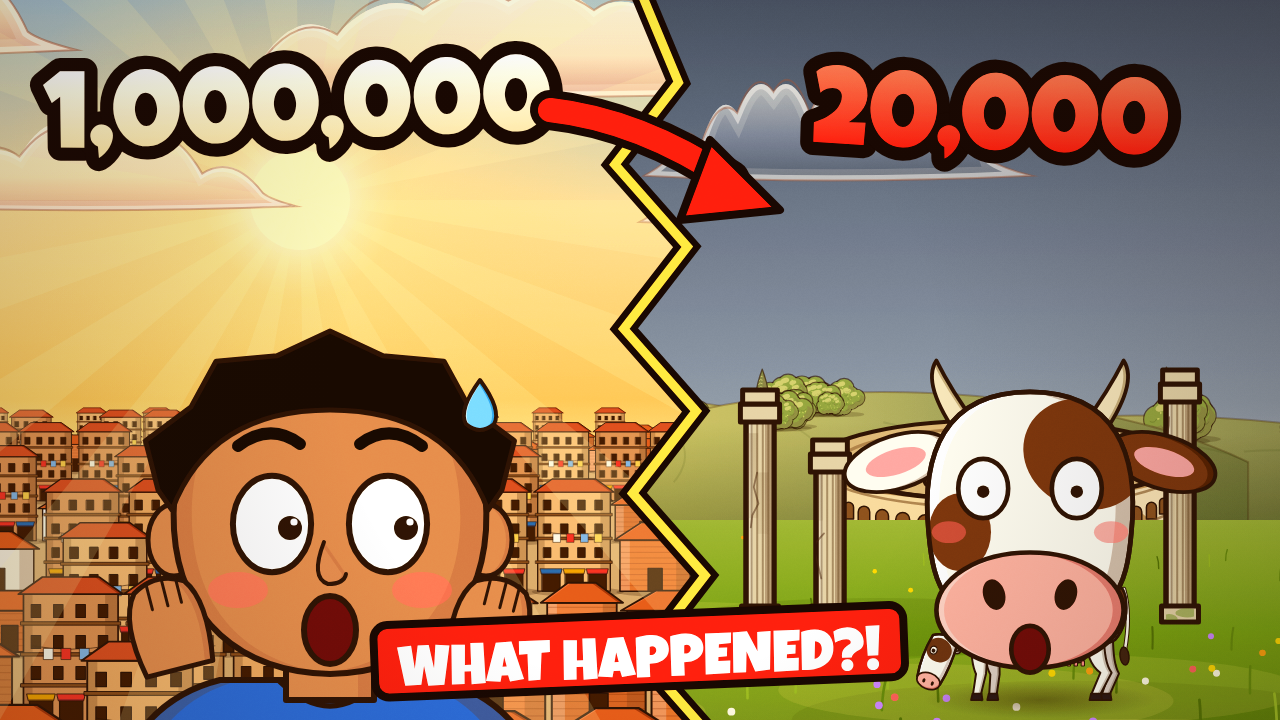
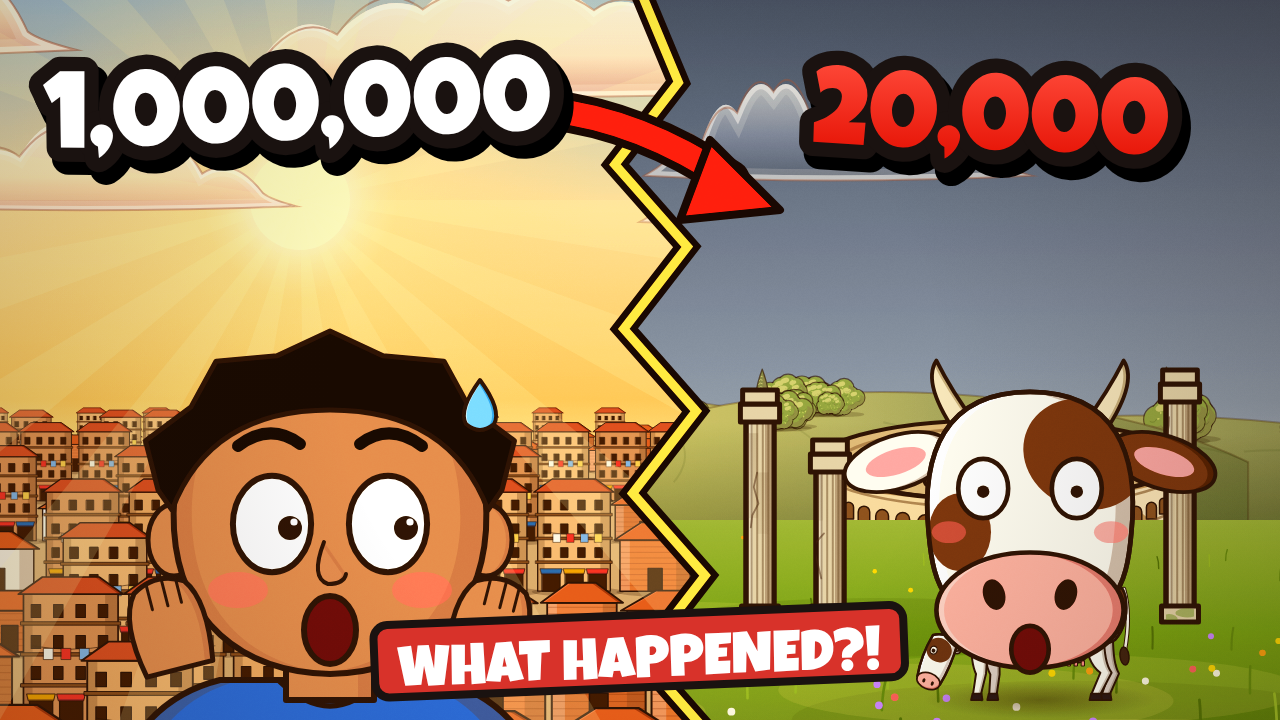
Rome thumbnails: titles painted after the colour grade, solid colours and heavier outlines
Claude-Session: https://claude.ai/code/session_011U7RCHA61NQ9PLDXwGdMry

Changed region(s): [[0.0312, 0.0611, 0.4688, 0.275], [0.2812, 0.825, 0.7188, 0.9778], [0.625, 0.0917, 0.9375, 0.275]]

diff --git a/houdini/rome/js/thumb.js b/houdini/rome/js/thumb.js
@@ -66,9 +66,9 @@
     ctx.fillStyle = 'rgba(240,110,110,.5)'; for (const d of [-1, 1]) { ctx.beginPath(); ctx.ellipse(d * 104, -10, 22, 14, 0, 0, 7); ctx.fill(); } ctx.restore(); }
 
   // ---------- title text: chunky font, thick dark outline, drop shadow ----------
-  function title(ctx, text, x, y, size, fill, o = {}) { ctx.save(); ctx.translate(x, y); ctx.rotate(o.rot || 0); ctx.font = `${size}px "Luckiest Guy", "Nunito", sans-serif`; ctx.textAlign = o.align || 'center'; ctx.textBaseline = 'alphabetic'; ctx.lineJoin = 'round';
-    ctx.fillStyle = 'rgba(0,0,0,.45)'; ctx.fillText(text, 6, 10); ctx.lineWidth = size * .24; ctx.strokeStyle = o.stroke || '#1a1210'; ctx.strokeText(text, 0, 0); if (Array.isArray(fill)) { const g = ctx.createLinearGradient(0, -size * .8, 0, 0); g.addColorStop(0, fill[0]); g.addColorStop(1, fill[1]); ctx.fillStyle = g; } else ctx.fillStyle = fill; ctx.fillText(text, 0, 0); ctx.restore(); }
-  function stamp(ctx, text, x, y, size, rot) { ctx.save(); ctx.translate(x, y); ctx.rotate(rot); ctx.font = `${size}px "Luckiest Guy", sans-serif`; const w = ctx.measureText(text).width + size * .8; ctx.fillStyle = '#d8322a'; ctx.strokeStyle = '#1a1210'; ctx.lineWidth = 8; ctx.beginPath(); ctx.roundRect(-w / 2, -size * .95, w, size * 1.25, 14); ctx.fill(); ctx.stroke(); ctx.fillStyle = '#fff'; ctx.textAlign = 'center'; ctx.fillText(text, 0, size * .12); ctx.restore(); }
+  function _title(ctx, text, x, y, size, fill, o = {}) { ctx.save(); ctx.translate(x, y); ctx.rotate(o.rot || 0); ctx.font = `${size}px "Luckiest Guy", "Nunito", sans-serif`; ctx.textAlign = o.align || 'center'; ctx.textBaseline = 'alphabetic'; ctx.lineJoin = 'round';
+    ctx.lineWidth = size * .3; ctx.strokeStyle = '#000'; ctx.strokeText(text, 7, 11); ctx.fillStyle = '#000'; ctx.fillText(text, 7, 11); ctx.lineWidth = size * .26; ctx.strokeStyle = o.stroke || '#1a1210'; ctx.strokeText(text, 0, 0); if (Array.isArray(fill)) { const g = ctx.createLinearGradient(0, -size * .8, 0, 0); g.addColorStop(0, fill[0]); g.addColorStop(1, fill[1]); ctx.fillStyle = g; } else ctx.fillStyle = fill; ctx.fillText(text, 0, 0); ctx.restore(); }
+  function _stamp(ctx, text, x, y, size, rot) { ctx.save(); ctx.translate(x, y); ctx.rotate(rot); ctx.font = `${size}px "Luckiest Guy", sans-serif`; const w = ctx.measureText(text).width + size * .8; ctx.fillStyle = '#d8322a'; ctx.strokeStyle = '#1a1210'; ctx.lineWidth = 8; ctx.beginPath(); ctx.roundRect(-w / 2, -size * .95, w, size * 1.25, 14); ctx.fill(); ctx.stroke(); ctx.fillStyle = '#fff'; ctx.textAlign = 'center'; ctx.fillText(text, 0, size * .12); ctx.restore(); }
   function burst(ctx, x, y, r, col, n = 14) { ctx.save(); ctx.translate(x, y); ctx.beginPath(); for (let i = 0; i < n * 2; i++) { const a = i * Math.PI / n, rr = i % 2 ? r * .62 : r; ctx.lineTo(Math.cos(a) * rr, Math.sin(a) * rr); } ctx.closePath(); ctx.fillStyle = col; ctx.fill(); ctx.strokeStyle = '#1a1210'; ctx.lineWidth = 6; ctx.stroke(); ctx.restore(); }
   function rays(ctx, x, y, col, a = .25) { ctx.save(); ctx.globalAlpha = a; ctx.fillStyle = col; for (let i = 0; i < 18; i++) { const a0 = i * Math.PI / 9; ctx.beginPath(); ctx.moveTo(x, y); ctx.lineTo(x + Math.cos(a0) * 1600, y + Math.sin(a0) * 1600); ctx.lineTo(x + Math.cos(a0 + .16) * 1600, y + Math.sin(a0 + .16) * 1600); ctx.closePath(); ctx.fill(); } ctx.restore(); }
   // a jagged diagonal split: left(ctx) and right(ctx) draw the two halves
@@ -87,12 +87,12 @@
   function v1(ctx) { split(ctx, c => { K.fireSky(c, t, 1); K.cityscape(c, t, { dusk: true }); const R = C.rng(5); for (let i = 0; i < 9; i++) K.flames(c, R() * 700, 470 + R() * 200, .7, t + i, { smoke: true }); P.grade(c, '#ff5020', .15, 'screen'); },
       c => { C.sky(c, 'golden', t, { horizon: 430, sun: [1100, 220], sunR: 60, seed: 7 }); rays(c, 1100, 220, '#fff4c0', .2); C.mounds(c, { y: 440, n: 5, seed: 8, col: '#8aa070', far: .4, sunX: 1100, t, w: 560, h: 90, copses: 2 }); K.colosseum(c, 1020, 440, 200, 46, 120); C.meadow(c, 520, 800, t, { col: '#8acc44', n: 140, flowers: 40 }); for (const [x, h] of [[740, 240], [800, 200]]) P.column(c, x, 600, 30, h, { col: '#efe6d2' }); });
     bust(ctx, 290, 520, 1.08, Object.assign({}, SENATOR, { face: 'panic', hands: 'cheeks' })); cowFace(ctx, 1010, 520, 1.0, { face: 'joy' });
-    title(ctx, 'ROME SHOULD', 640, 112, 96, ['#ffffff', '#f4e4c0'], { rot: -.03 }); title(ctx, "HAVE DIED", 640, 210, 104, ['#ffe060', '#ff9a20'], { rot: -.03 }); stamp(ctx, '5 TIMES!', 640, 660, 74, -.06);
+    title(ctx, 'ROME SHOULD', 640, 112, 96, ['#ffffff', '#ffffff'], { rot: -.03 }); title(ctx, "HAVE DIED", 640, 210, 104, ['#fff200', '#ffb000'], { rot: -.03 }); stamp(ctx, '5 TIMES!', 640, 660, 74, -.06);
     C.finish(ctx, t, 'golden', { leak: false, vig: .25, grain: false }); }
   // 2. "1,000,000 → 20,000": a shocked tourist in today's Forum | the medieval cow pasture, the population crashing
   function v2(ctx) { split(ctx, c => { C.sky(c, 'golden', t, { horizon: 440, sun: [300, 200], sunR: 50, seed: 11 }); K.cityscape(c, t); rays(c, 300, 200, '#fff4c0', .18); },
       c => { C.sky(c, 'storm', t, { horizon: 440, seed: 12, clouds: 3 }); C.mounds(c, { y: 450, n: 5, seed: 13, col: '#7a8a68', far: .4, sunX: 900, t, w: 560, h: 80, copses: 2 }); K.colosseum(c, 1000, 460, 180, 40, 100); C.meadow(c, 520, 800, t, { col: '#7a9a3a', n: 120 }); for (const [x, h] of [[760, 200], [830, 150], [1180, 220]]) P.column(c, x, 620, 28, h, { col: '#d8ccb0' }); P.cow(c, 1040, 700, .5, t, { graze: true, seed: 3 }); });
-    title(ctx, '1,000,000', 300, 140, 110, ['#ffffff', '#f0e0b8'], { rot: -.04 }); title(ctx, '20,000', 990, 150, 110, ['#ff8a70', '#e8322a'], { rot: .03 });
+    title(ctx, '1,000,000', 300, 140, 110, ['#ffffff', '#ffffff'], { rot: -.04 }); title(ctx, '20,000', 990, 150, 110, ['#ff4a3a', '#e8180a'], { rot: .03 });
     ctx.save(); ctx.translate(640, 150); ctx.strokeStyle = '#1a1210'; ctx.lineWidth = 40; ctx.lineCap = 'round'; ctx.beginPath(); ctx.moveTo(-90, -40); ctx.quadraticCurveTo(0, -30, 90, 30); ctx.stroke(); ctx.strokeStyle = '#e8322a'; ctx.lineWidth = 24; ctx.stroke(); ink(ctx, '#e8322a', c => { c.moveTo(70, -10); c.lineTo(140, 60); c.lineTo(40, 70); c.closePath(); }, 8, '#1a1210'); ctx.restore();
     bust(ctx, 330, 560, 1.0, Object.assign({}, TOURIST, { face: 'surprise', hands: 'cheeks', look: 18 })); cowFace(ctx, 1030, 540, .78, { face: 'shock' });
     stamp(ctx, 'WHAT HAPPENED?!', 640, 670, 58, -.04); C.finish(ctx, t, 'golden', { leak: false, vig: .25 }); }
@@ -102,7 +102,7 @@
     for (let i = 0; i < 3; i++) { ctx.strokeStyle = 'rgba(140,210,245,.95)'; ctx.lineWidth = 46 - i * 12; ctx.lineCap = 'round'; ctx.beginPath(); ctx.moveTo(640, 330); ctx.quadraticCurveTo(700 + i * 40, 420, 660 + i * 70, 720); ctx.stroke(); } for (let i = 0; i < 26; i++) { const a = -1.4 + i * .11, r = 60 + (i * 37) % 90; cel(ctx, c => c.arc(640 + Math.cos(a) * r, 330 + Math.sin(a) * r * .8, 8 + (i % 3) * 4, 0, 7), '#a8e0ff', { dx: 2, dy: 2, lw: 3 }); }
     for (let i = 0; i < 6; i++) P.rock(ctx, 560 + i * 40, 716, 26, '#d8bc8a');
     bust(ctx, 1000, 560, 1.0, Object.assign({}, GOTH, { face: 'grin', hands: 'thumb' })); bust(ctx, 250, 560, 1.0, Object.assign({}, LEGION, { face: 'panic', hands: 'cheeks' }));
-    title(ctx, 'THEY CUT', 640, 120, 104, ['#ffffff', '#e0f0ff'], { rot: -.03 }); title(ctx, 'THE WATER', 640, 222, 112, ['#9ae0ff', '#2a98e8'], { rot: -.03 }); stamp(ctx, 'AD 537', 640, 670, 60, .05);
+    title(ctx, 'THEY CUT', 640, 120, 104, ['#ffffff', '#ffffff'], { rot: -.03 }); title(ctx, 'THE WATER', 640, 222, 112, ['#40d8ff', '#0a8cff'], { rot: -.03 }); stamp(ctx, 'AD 537', 640, 670, 60, .05);
     C.finish(ctx, t, 'storm', { leak: false, vig: .25 }); }
 
   const MATRON = { kind: 'tunic', cloth: '#c86a5a', skin: '#e8b48c', hair: '#2a1a14', hairStyle: 'bun', fem: true };
@@ -114,14 +114,14 @@
     ctx.save(); ctx.beginPath(); ctx.rect(574, 330, 132, 230); ctx.clip(); ctx.fillStyle = '#ff9a40'; ctx.fillRect(560, 320, 160, 260); for (let i = 0; i < 4; i++) { ctx.fillStyle = '#2a1414'; ctx.beginPath(); ctx.arc(600 + i * 30, 520, 18, Math.PI, 0); ctx.fill(); ctx.fillRect(582 + i * 30, 520, 36, 40); ctx.beginPath(); ctx.arc(600 + i * 30, 492, 13, 0, 7); ctx.fill(); ctx.strokeStyle = '#2a1414'; ctx.lineWidth = 5; ctx.beginPath(); ctx.moveTo(612 + i * 30, 520); ctx.lineTo(620 + i * 30, 420); ctx.stroke(); } ctx.restore();
     rays(ctx, 640, 450, '#ffb060', .22); const R = C.rng(9); for (let i = 0; i < 5; i++) K.flames(ctx, 80 + i * 280, 600, .9, t + i, { smoke: true });
     bust(ctx, 250, 560, 1.06, Object.assign({}, SENATOR, { face: 'panic', hands: 'head' })); bust(ctx, 1030, 570, 1.0, Object.assign({}, MATRON, { face: 'surprise', hands: 'cheeks', shock: true, look: -16 }));
-    title(ctx, 'BARBARIANS', 640, 112, 104, ['#ffffff', '#f4e4c0'], { rot: -.02 }); title(ctx, 'INSIDE ROME!', 640, 214, 96, ['#ffe060', '#ff8a20'], { rot: -.02 }); stamp(ctx, 'AD 410', 640, 676, 58, .04);
+    title(ctx, 'BARBARIANS', 640, 112, 104, ['#ffffff', '#ffffff'], { rot: -.02 }); title(ctx, 'INSIDE ROME!', 640, 214, 96, ['#fff200', '#ffb000'], { rot: -.02 }); stamp(ctx, 'AD 410', 640, 676, 58, .04);
     C.finish(ctx, t, 'blood', { leak: false, vig: .25 }); }
   // 5. "COWS IN THE FORUM?!" — a shocked senator and a stunned monk find cattle grazing among the ruins of the Forum
   function v5(ctx) { C.sky(ctx, 'golden', t, { horizon: 430, sun: [640, 260], sunR: 60, seed: 41 }); rays(ctx, 640, 300, '#fff4c0', .22); C.mounds(ctx, { y: 440, n: 5, seed: 42, col: '#8aa070', far: .4, sunX: 640, t, w: 560, h: 90, copses: 2 });
     K.colosseum(ctx, 640, 440, 200, 46, 110); C.meadow(ctx, 500, 800, t, { col: '#8acc44', n: 160, flowers: 40 }); for (const [x, h] of [[420, 230], [480, 190], [820, 240], [880, 210]]) P.column(ctx, x, 600, 30, h, { col: '#efe6d2' }); cel(ctx, c => c.rect(400, 360, 100, 22), '#efe6d2', { shade: '#c0b8a8', dx: 0, dy: 5, lw: 3 });
     P.cow(ctx, 560, 680, .6, t, { graze: true, seed: 3 }); P.cow(ctx, 780, 700, .55, t, { seed: 6, flip: true, unimpressed: true }); P.goat(ctx, 660, 720, .5, t, { seed: 4 });
     bust(ctx, 220, 570, 1.06, Object.assign({}, SENATOR, { face: 'surprise', hands: 'cheeks', shock: true, look: 16 })); bust(ctx, 1060, 570, 1.0, Object.assign({}, MONK, { face: 'panic', hands: 'head' }));
-    title(ctx, 'COWS IN', 640, 112, 108, ['#ffffff', '#f4e4c0'], { rot: -.03 }); title(ctx, 'THE FORUM?!', 640, 218, 104, ['#ffe060', '#ff8a20'], { rot: -.03 });
+    title(ctx, 'COWS IN', 640, 112, 108, ['#ffffff', '#ffffff'], { rot: -.03 }); title(ctx, 'THE FORUM?!', 640, 218, 104, ['#fff200', '#ffb000'], { rot: -.03 });
     C.finish(ctx, t, 'golden', { leak: false, vig: .25 }); }
   // 6. "THE WATER STOPPED" — a panicked legionary and a shocked matron over a bone-dry fountain, the broken aqueduct behind
   function v6(ctx) { C.sky(ctx, 'storm', t, { horizon: 460, seed: 51, clouds: 4 }); rays(ctx, 640, 420, '#c8d8f0', .14); C.mounds(ctx, { y: 470, n: 5, seed: 52, col: '#7a8a68', far: .4, sunX: 900, t, w: 560, h: 90, copses: 2 });
@@ -129,8 +129,10 @@
     ctx.save(); ctx.translate(640, 640); cel(ctx, c => c.rect(-170, -70, 340, 70), '#d8ccb0', { shade: '#a89a78', dx: 0, dy: 10, lw: 5 }); ctx.fillStyle = '#8a7a5a'; ctx.fillRect(-156, -64, 312, 14); for (let i = 0; i < 6; i++) { ctx.strokeStyle = '#5a4a3a'; ctx.lineWidth = 3; ctx.beginPath(); ctx.moveTo(-140 + i * 50, -60); ctx.lineTo(-130 + i * 50, -52); ctx.lineTo(-138 + i * 50, -46); ctx.stroke(); } cel(ctx, c => c.rect(-24, -240, 48, 170), '#d8ccb0', { shade: '#a89a78', dx: 8, dy: 0, lw: 5 }); cel(ctx, c => c.arc(0, -210, 26, 0, 7), '#c8b890', { shade: '#988a68', dx: 4, dy: 4, lw: 4 }); ctx.fillStyle = INK; ctx.beginPath(); ctx.arc(0, -202, 7, 0, 7); ctx.fill();
       cel(ctx, c => { c.moveTo(6, -196); c.quadraticCurveTo(12, -180, 6, -172); c.quadraticCurveTo(0, -180, 6, -196); c.closePath(); }, '#8ad0f4', { dx: 2, dy: 0, lw: 3 }); ctx.restore();
     bust(ctx, 240, 570, 1.06, Object.assign({}, LEGION, { face: 'panic', hands: 'head' })); bust(ctx, 1040, 570, 1.0, Object.assign({}, MATRON, { face: 'surprise', hands: 'cheeks', shock: true, look: -16, hair: '#5a3a24', cloth: '#5a8aa8' }));
-    title(ctx, 'THE WATER', 640, 112, 108, ['#ffffff', '#e0f0ff'], { rot: -.03 }); title(ctx, 'STOPPED!', 640, 220, 116, ['#9ae0ff', '#2a98e8'], { rot: -.03 }); stamp(ctx, 'AD 537', 640, 690, 50, .04);
+    title(ctx, 'THE WATER', 640, 112, 108, ['#ffffff', '#ffffff'], { rot: -.03 }); title(ctx, 'STOPPED!', 640, 220, 116, ['#40d8ff', '#0a8cff'], { rot: -.03 }); stamp(ctx, 'AD 537', 640, 690, 50, .04);
     C.finish(ctx, t, 'storm', { leak: false, vig: .25 }); }
 
-  G.drawThumb = (ctx, v) => { ctx.clearRect(0, 0, W, H); ({ 1: v1, 2: v2, 3: v3, 4: v4, 5: v5, 6: v6 })[v](ctx); };
+  // titles and stamps are queued and painted after the colour grade / vignette, so the grade never dims them
+  const Q = [], title = (...a) => Q.push(() => _title(...a)), stamp = (...a) => Q.push(() => _stamp(...a));
+  G.drawThumb = (ctx, v) => { ctx.clearRect(0, 0, W, H); Q.length = 0; ({ 1: v1, 2: v2, 3: v3, 4: v4, 5: v5, 6: v6 })[v](ctx); ctx.save(); ctx.setTransform(1, 0, 0, 1, 0, 0); Q.forEach(f => f()); ctx.restore(); };
 })(window);
